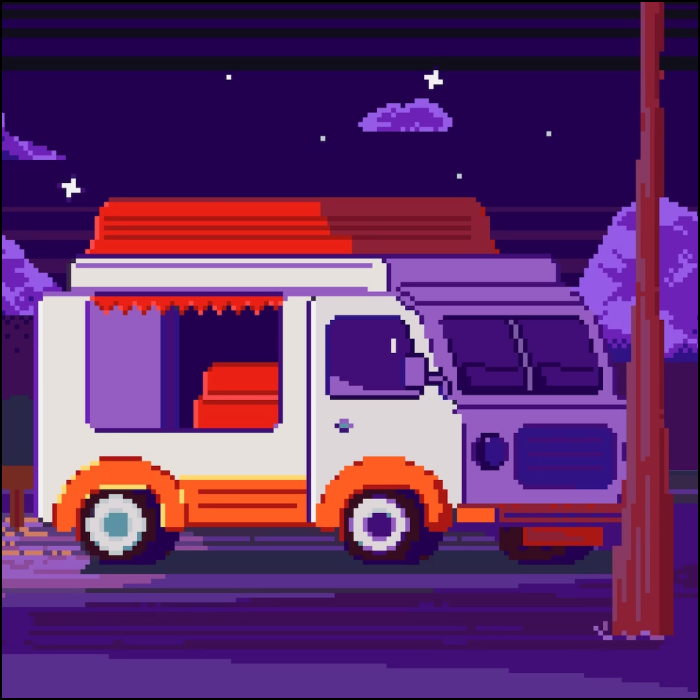
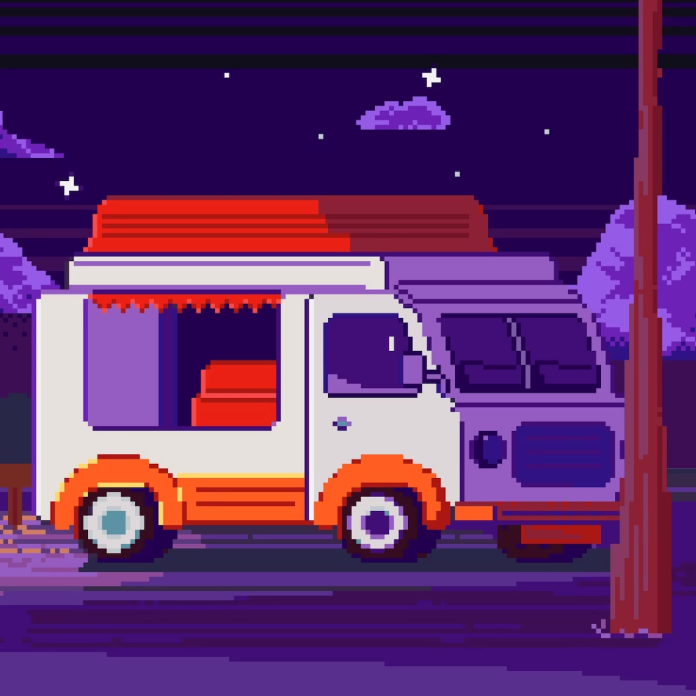
PR4 done

diff --git a/styles/style.css b/styles/style.css
@@ -85,8 +85,8 @@
   position: relative;
   inline-size: 100%;
   block-size: 100%;
-  max-block-size: 696px;
   overflow: hidden;
+  aspect-ratio: 1;
   border: 2px solid var(--border__color);
   box-sizing: border-box;
 }
